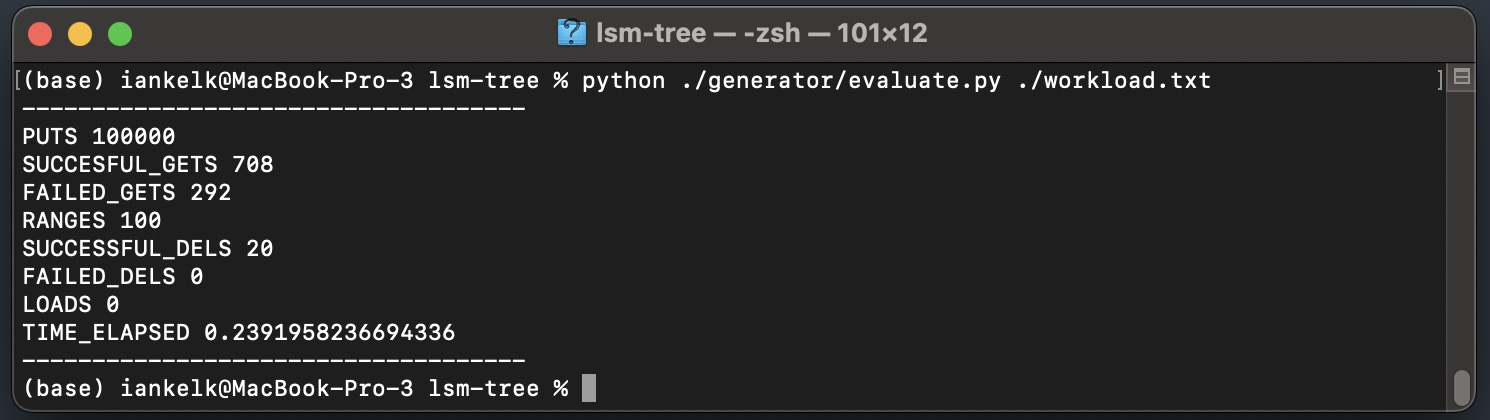
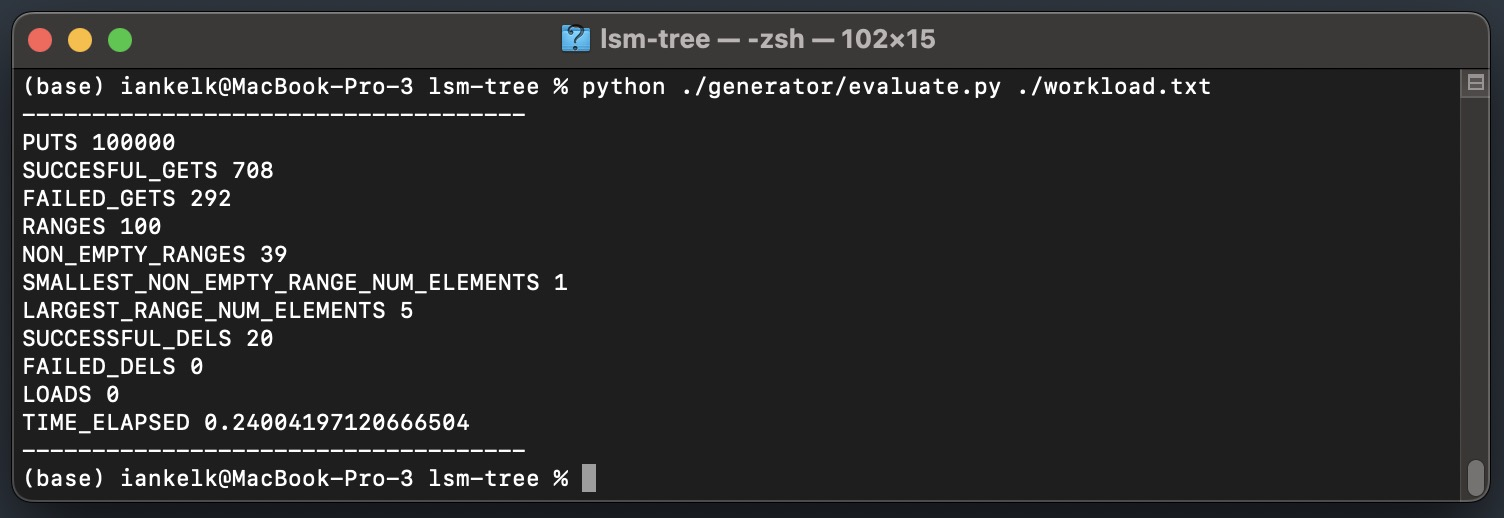
Added range information to evaluate report

Changed region(s): [[0.0, 0.0, 0.9879, 0.9905]]

diff --git a/CHANGELOG.md b/CHANGELOG.md
@@ -43,7 +43,7 @@ if((((float)rand()) / RAND_MAX > s->gets_skewness) || old_gets_pool_count == 0) 
 ![Screen shot of generator](./img/generator.jpg)
 
 ### Example ###
-**Query:** Insert 100000 keys, perform 1000 gets and 10 range queries (with a maximum range size of 1000 elements) and 20 deletes. The amount of misses of gets should be approximately 30% (--gets-misses-ratio) and 20% of the queries should be repeated (--gets-skewness).
+**Query:** Insert 100000 keys, perform 1000 gets and 10 range queries (with a maximum range size of 1000 elements) and 20 deletes. The amount of misses of gets should be approximately 30% (`--gets-misses-ratio`) and 20% of the queries should be repeated (`--gets-skewness`).
 
 ```
 ./generator --puts 100000 --gets 1000 --ranges 10 --deletes 20 --gets-misses-ratio 0.3 --gets-skewness 0.2 --max-range-size 1000 > workload.txt
@@ -78,11 +78,15 @@ Most platforms: ```pip install sortedcontainers```
 
 2. The two flags, `verbose` and `show_output` have been changed to command-line arguments. To do this, `import argparse` was added to the top of the file, but it does not require any additional libraries to be installed.
 
+#### Improvements: ####
+
+The evaluation report now also displayes the number of non-empty ranges found, as well as the smallest and largest ranges (by number of elements) found.
+
 ### Running ###
 
 Run as follows:
 ```
-python evaluate.py workload.txt
+python evaluate.py [-h] [-v] [-s] [workload.txt]
 ```
 
 ### Help screenshot

diff --git a/README.md b/README.md
@@ -78,7 +78,7 @@ Most platforms: ```pip install sortedcontainers```
 
 Run as follows:
 ```
-python evaluate.py workload.txt
+python evaluate.py [-h] [-v] [-s] [workload.txt]
 ```
 
 ### Help screenshot
